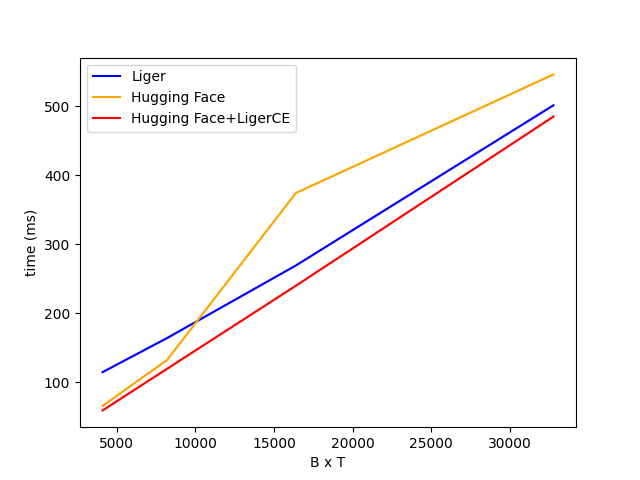
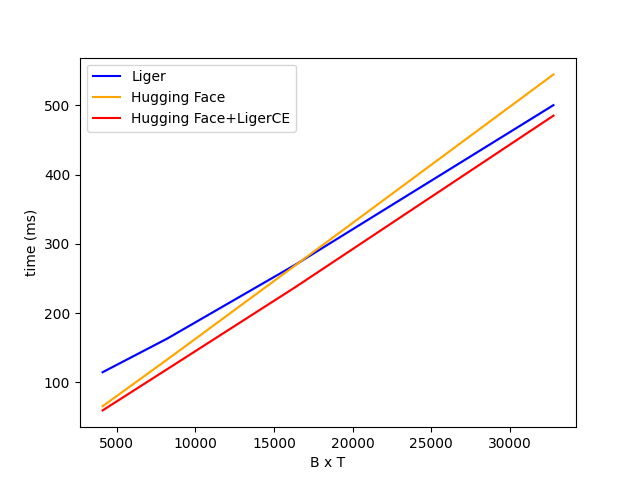
cleanup

diff --git a/benchmark/benchmark_linear_fused_cross_entropy.py b/benchmark/benchmark_linear_fused_cross_entropy.py
@@ -134,8 +134,8 @@ def benchmark_memory_cross_entropy_wrapper():
             x_vals=[2**i for i in range(12, 16)],
             xlabel="B x T",
             line_arg="provider",
-            line_vals=["huggingface", "huggingface_ligerce"],
-            line_names=["Hugging Face", "Hugging Face+LigerCE"],
+            line_vals=["liger", "huggingface", "huggingface_ligerce"],
+            line_names=["Liger", "Hugging Face", "Hugging Face+LigerCE"],
             styles=[
                 ("blue", "solid"),
                 ("orange", "solid"),

diff --git a/test/convergence/test_mini_models.py b/test/convergence/test_mini_models.py
@@ -201,7 +201,6 @@ def run_mini_model(
     return {"loss": loss_list, "logits": output.logits, "model": model}
 
 
-@pytest.mark.convergence
 @pytest.mark.parametrize(
     "model_name, num_steps, lr, dtype, loss_atol, loss_rtol, logits_atol, logits_rtol, param_atol, param_rtol",
     [

diff --git a/test/convergence/test_mini_models_no_logits.py b/test/convergence/test_mini_models_no_logits.py
@@ -141,7 +141,6 @@ def run_mini_model(
     return {"loss": loss_list, "logits": output.logits, "model": model}
 
 
-@pytest.mark.convergence
 @pytest.mark.parametrize(
     "model_name, num_steps, lr, dtype, loss_atol, loss_rtol, logits_atol, logits_rtol, param_atol, param_rtol",
     [
